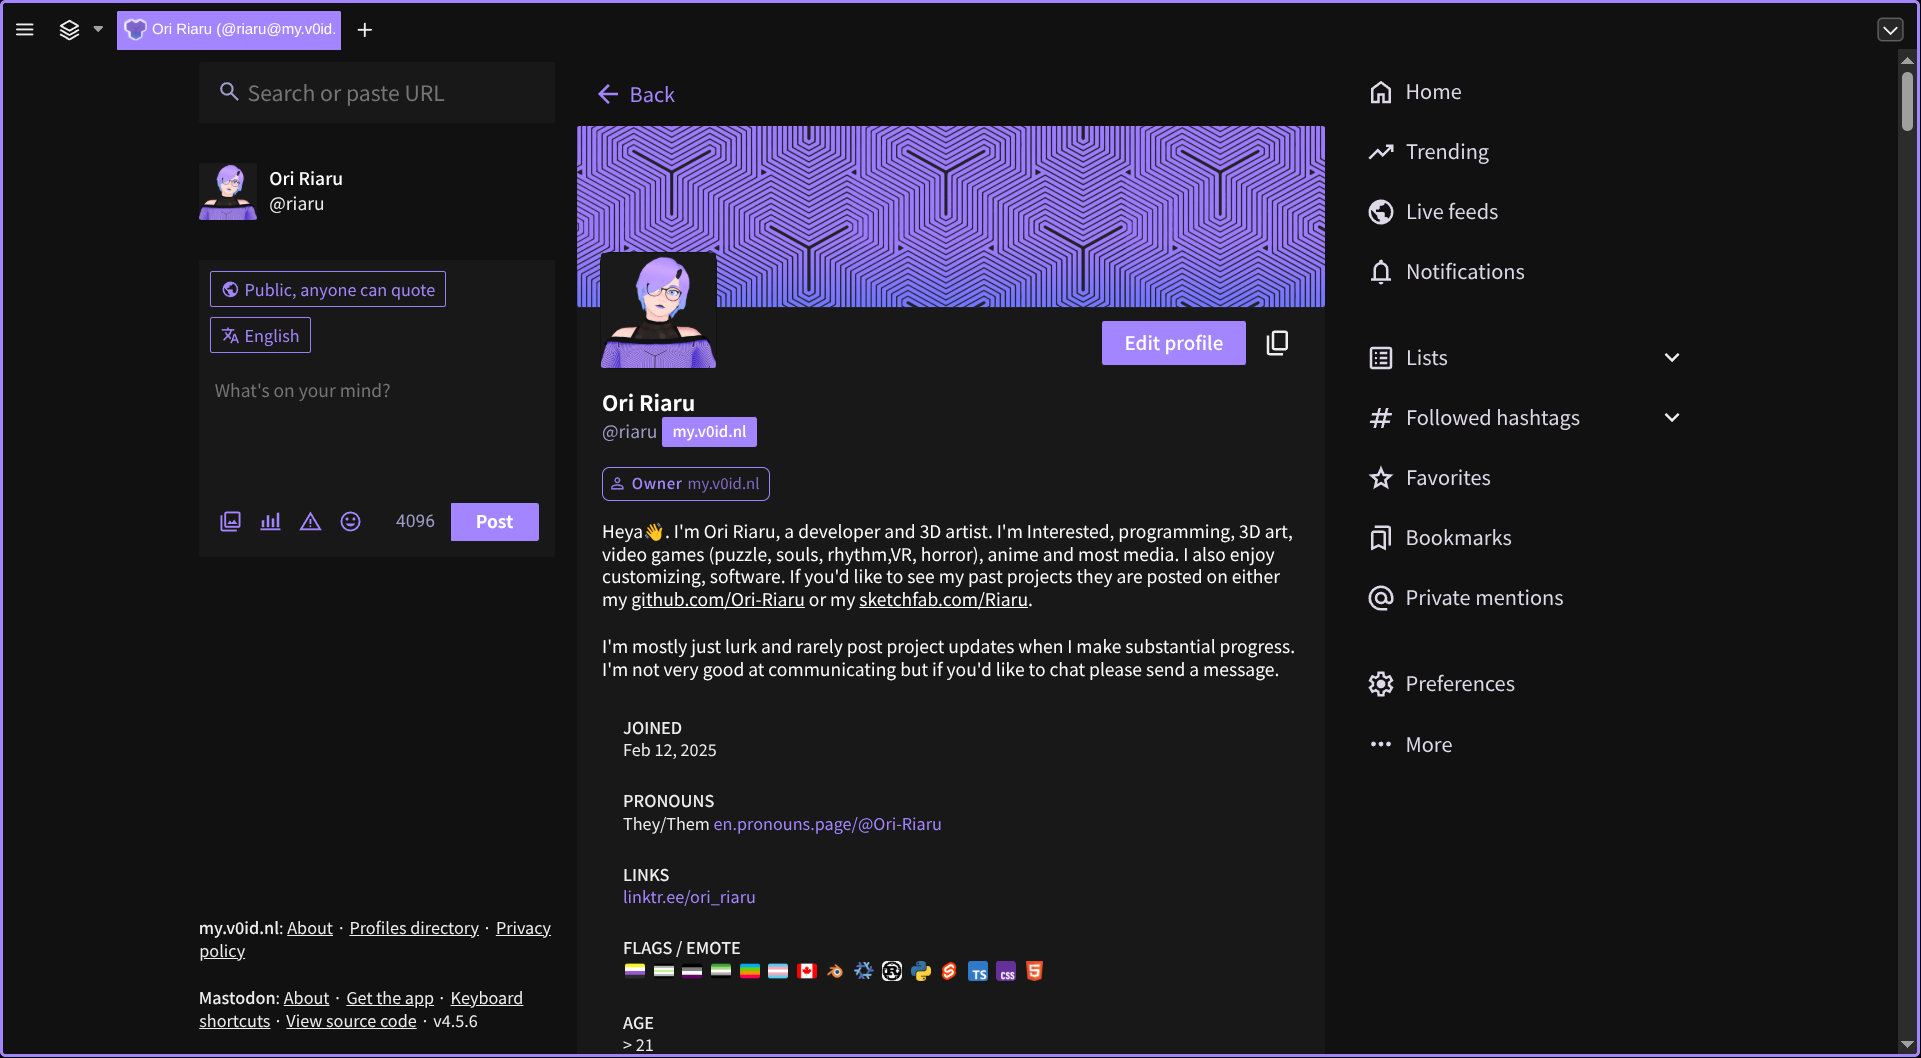
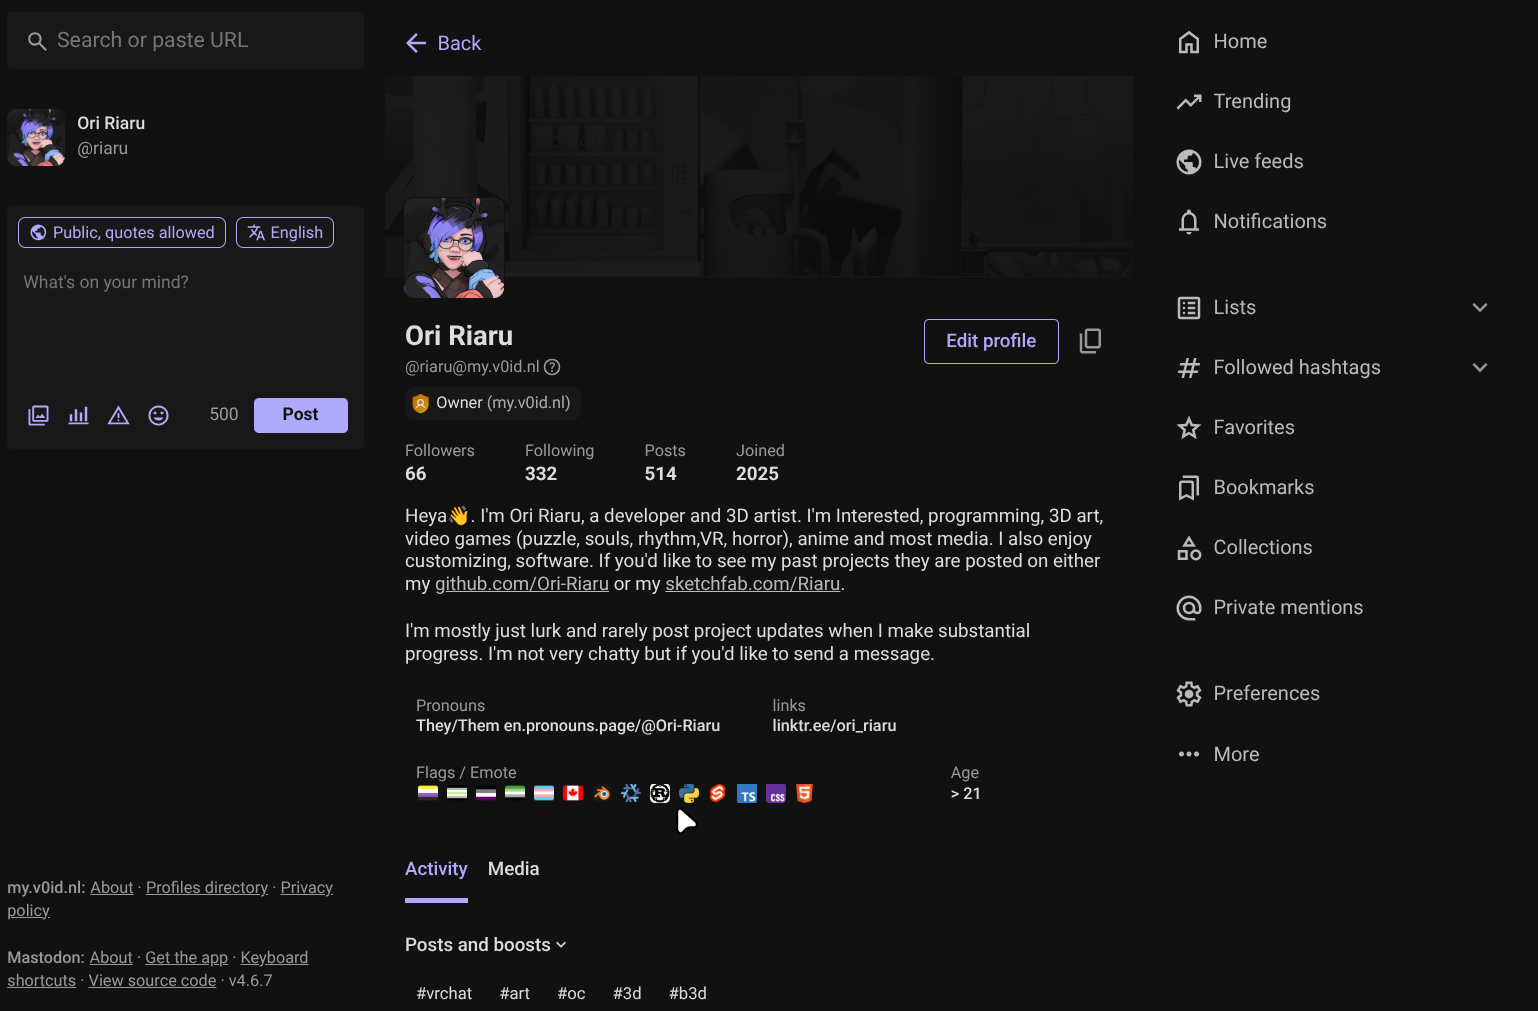
docs: cleanup outdated readme
- fixes broken linked caused by updates
- fix minor grammer and spelling issues
- add collapsable section to colors
- removes html rendering for swatches as github doesn't display it
anyways

diff --git a/README.md b/README.md
@@ -18,22 +18,26 @@ My personal Nixos configurations. They are not intended to be used by others how
 
 - [`users/`](./users/): Home Manager configurations for each user (built with `nh home switch`)
   - [`riaru/`](./users/riaru/)
-    - [`lain/`](./users/riaru/lain)- Home Manager configurations imported to my desktop
-    - [`slate/`](./users/riaru/slate)` - Home Manager configurations imported to my laptop
-    - [`kumo/`](./users/riaru/kumo) - Home Manager configuration imported to my desktop
+    - [`lain/`](./users/riaru/lain) - Home Manager configurations imported to my desktop
+    - [`slate/`](./users/riaru/slate) - Home Manager configurations imported to my laptop
+    - [`kumo/`](./users/riaru/kumo) - Home Manager configuration imported to my server
 
 - [`starters/`](./starters/): Project starting templates including flake and direnv
 - [`packages/`](./packages/): Self package software not available in nix packages
 - [`overlays/`](./overlays/): Patches and version overrides for packages
 - [`secrets/`](./secrets/): Encrypted credentials, passwords, keys, etc
 
-## Featured Configurations (TODO: outdated update)
+## Features
+
+### Desktop
 
 - [Niri](./configs/programs/niri/niri.nix) / [Waybar](./configs/programs/waybar/waybar.nix) / [Walker](./configs/programs/walker.nix)
 
 ![niri preview](./.github/niri-preview.png)
 
-- [Vivaldi](./configs/programs/vivaldi.nix)
+### Default Apps
+
+- [Vivaldi](./configs/programs/vivaldi/vivaldi.nix)
 
 ![Vivaldi Preview](./.github/vivaldi-preview.png)
 
@@ -41,17 +45,9 @@ My personal Nixos configurations. They are not intended to be used by others how
 
 ![vscodium preview](./.github/vscodium-preview.png)
 
-- [Ghostty](./configs/programs/ghostty.nix) / [Fish](./configs/programs/fish.nix) / [Starship](./configs/programs/starship.nix) / [Zoxide](./configs/programs/zoxide.nix) / [etc](./configs/groups/cli-base.nix)
+- [Ghostty](./configs/programs/ghostty.nix) / [Fish](./configs/programs/fish/fish.nix) / [Starship](./configs/programs/starship.nix) / [Zoxide](./configs/programs/zoxide.nix) / [etc](./configs/groups/cli-apps.nix)
 
 ![ghostty preview](./.github/ghostty-preview.png)
-
-- [Discord](./configs/programs/discord.nix)
-
-TODO: add demo
-
-- [Spotify](./configs/programs/spotify/spotify.nix)
-
-![spotify preview](./.github/spotify-preview.png)
 
 - [Obsidian](./configs/programs/obsidian.nix)
 
@@ -82,36 +78,38 @@ TODO: add demo
 Many application and websites have been themed to match my custom color scheme
 
 | Fonts     |                                                    | \   | \   |     | Spacing  |     |                            |
-| --------- | -------------------------------------------------- | --- | --- | --- | -------- | --- | -------------------------- |
+| -----------| ----------------------------------------------------| -----| -----| -----| ----------| -----| ----------------------------|
 | UI        | [Inter](https://fonts.google.com/specimen/Inter)   | \   | \   |     | `gap`    | 0px | Gap Between Major Sections |
 | Monospace | [JetBrainMono](https://www.jetbrains.com/lp/mono/) | \   | \   |     | `radius` | 2px | Radius of Cards            |
 
-### Color Palette
+<details><summary>Full Color List and Descriptions</summary>
 
-| Color              | Hex                                                                                                      | Swatch                                                       | Usage                                                             |     |
-| ------------------ | -------------------------------------------------------------------------------------------------------- | ------------------------------------------------------------ | ----------------------------------------------------------------- | --- |
-| Text               |                                                                                                          |                                                              |                                                                   |     |
-| `Text`             | <div style="color: white; background-color: #111111; padding: 15px; border-radius: 2px ">#eeeeee</div>   | ![Text](./.github/swatches/text.png)                         | Basic text, Headers                                               |     |
-| `Subtext`          | <div style="color: #aaaaaa; background-color: #111111; padding: 15px; border-radius: 2px ">#aaaaaa</div> | ![Subtext](./.github/swatches/subtext.png)                   | Subtext, Placeholder, Comments                                    |     |
-| `Hidden`           | <div style="color: #606060; background-color: #111111; padding: 15px; border-radius: 2px ">#606060</div> | ![Hidden](./.github/swatches/hidden.png)                     | Disabled, Hidden                                                  |     |
-| Backgrounds        |                                                                                                          |                                                              |                                                                   |     |
-| `base`             | <div style="color: white; background-color: #000000; padding: 15px; border-radius: 2px ">#000000</div>   | ![Base](./.github/swatches/base.png)                         | Window backgrounds                                                |     |
-| `section`          | <div style="color: white; background-color: #111111; padding: 15px; border-radius: 2px ">#111111</div>   | ![Section](./.github/swatches/section.png)                   | Major Section, Content Only Window                                |     |
-| `card`             | <div style="color: white; background-color: #181818; padding: 15px; border-radius: 2px ">#181818</div>   | ![Card](.github/swatches/card.png)                           | Card, Input, highlighted button                                   |     |
-| `overlay`          | <div style="color: white; background-color: #222222; padding: 15px; border-radius: 2px ">#222222</div>   | ![Overlay](./.github/swatches/overlay.png)                   | Search Overlay,                                                   |     |
-| Customizations     |                                                                                                          |                                                              |                                                                   |     |
-| `accent`           | <div style="color: white; background-color: #a386ff; padding: 15px; border-radius: 2px ">#a386ff</div>   | ![Accent](./.github/swatches/accent.png)                     | Customizable Primary Accent                                       |     |
-| `accent-secondary` | <div style="color: white; background-color: #83bbff; padding: 15px; border-radius: 2px ">#83bbff</div>   | ![Accent-Secondary](./.github/swatches/accent-secondary.png) | Customizable Secondary Accent                                     |     |
-| `accent-tertiary`  | <div style="color: black; background-color: #fefb77; padding: 15px; border-radius: 2px ">#fefb77</div>   | ![Accent-Tertiary](./.github/swatches/accent-tertiary.png)   | Customizable Tertiary Accent                                      |     |
-| Colors             |                                                                                                          |                                                              |                                                                   |     |
-| `Red`              | <div style="color: white; background-color: #fe5970; padding: 15px; border-radius: 2px ">#fe5970</div>   | ![Red](./.github/swatches/red.png)                           | Error, Remove, Close, Delete, Tags (HTML/XML), Annotations        |     |
-| `Orange`           | <div style="color: white; background-color: #ffa062; padding: 15px; border-radius: 2px ">#ffa062</div>   | ![Orange](./.github/swatches/orange.png)                     | Warning, Numbers                                                  |     |
-| `Yellow`           | <div style="color: black; background-color: #fefb77; padding: 15px; border-radius: 2px ">#fefb77</div>   | ![Yellow](./.github/swatches/yellow.png)                     | Info, Help                                                        |     |
-| `Green`            | <div style="color: black; background-color: #99ff82; padding: 15px; border-radius: 2px ">#99ff82</div>   | ![Green](./.github/swatches/green.png)                       | Strings                                                           |     |
-| `Teal`             | <div style="color: black; background-color: #80ffc1; padding: 15px; border-radius: 2px ">#80ffc1</div>   | ![Teal](./.github/swatches/teal.png)                         | Success, New, Add,                                                |     |
-| `Cyan`             | <div style="color: black; background-color: #7ef8fe; padding: 15px; border-radius: 2px ">#7ef8fe</div>   | ![Cyan](./.github/swatches/cyan.png)                         | Attributes, Properties (HTML/CSS/JSX)                             |     |
-| `Blue`             | <div style="color: white; background-color: #83bbff; padding: 15px; border-radius: 2px ">#83bbff</div>   | ![Blue](./.github/swatches/blue.png)                         | Neutral, Function Names, Declarations                             |     |
-| `Purple`           | <div style="color: white; background-color: #a386ff; padding: 15px; border-radius: 2px ">#a386ff</div>   | ![Purple](./.github/swatches/purple.png)                     | Modified, Change, Edit, Keywords, Reserved Words, Important Terms |     |
-| `Pink`             | <div style="color: black; background-color: #fe99fe; padding: 15px; border-radius: 2px ">#fe99fe</div>   | ![Pink](./.github/swatches/pink.png)                         | Operators (+, -, \*, etc.)                                        |     |
-| `White`            | <div style="color: black; background-color: #ffffff; padding: 15px; border-radius: 2px ">#ffffff</div>   | ![White](./.github/swatches/white.png)                       |                                                                   |     |
-| `Black`            | <div style="color: white; background-color: #000000; padding: 15px; border-radius: 2px ">#000000</div>   | ![Black](./.github/swatches/black.png)                       |                                                                   |     |
+| Color              | Hex     | Swatch                                                       | Usage                                                             |     |
+| --------------------| ---------| --------------------------------------------------------------| -------------------------------------------------------------------| -----|
+| Text               |         |                                                              |                                                                   |     |
+| `Text`             | #eeeeee | ![Text](./.github/swatches/text.png)                         | Basic text, Headers                                               |     |
+| `Subtext`          | #aaaaaa | ![Subtext](./.github/swatches/subtext.png)                   | Subtext, Placeholder, Comments                                    |     |
+| `Hidden`           | #606060 | ![Hidden](./.github/swatches/hidden.png)                     | Disabled, Hidden                                                  |     |
+| Backgrounds        |         |                                                              |                                                                   |     |
+| `base`             | #000000 | ![Base](./.github/swatches/base.png)                         | Window backgrounds                                                |     |
+| `section`          | #111111 | ![Section](./.github/swatches/section.png)                   | Major Section, Content Only Window                                |     |
+| `card`             | #181818 | ![Card](.github/swatches/card.png)                           | Card, Input, highlighted button                                   |     |
+| `overlay`          | #222222 | ![Overlay](./.github/swatches/overlay.png)                   | Search Overlay,                                                   |     |
+| Customizations     |         |                                                              |                                                                   |     |
+| `accent`           | #a386ff | ![Accent](./.github/swatches/accent.png)                     | Customizable Primary Accent                                       |     |
+| `accent-secondary` | #83bbff | ![Accent-Secondary](./.github/swatches/accent-secondary.png) | Customizable Secondary Accent                                     |     |
+| `accent-tertiary`  | #fefb77 | ![Accent-Tertiary](./.github/swatches/accent-tertiary.png)   | Customizable Tertiary Accent                                      |     |
+| Colors             |         |                                                              |                                                                   |     |
+| `Red`              | #fe5970 | ![Red](./.github/swatches/red.png)                           | Error, Remove, Close, Delete, Tags (HTML/XML), Annotations        |     |
+| `Orange`           | #ffa062 | ![Orange](./.github/swatches/orange.png)                     | Warning, Numbers                                                  |     |
+| `Yellow`           | #fefb77 | ![Yellow](./.github/swatches/yellow.png)                     | Info, Help                                                        |     |
+| `Green`            | #99ff82 | ![Green](./.github/swatches/green.png)                       | Strings                                                           |     |
+| `Teal`             | #80ffc1 | ![Teal](./.github/swatches/teal.png)                         | Success, New, Add,                                                |     |
+| `Cyan`             | #7ef8fe | ![Cyan](./.github/swatches/cyan.png)                         | Attributes, Properties (HTML/CSS/JSX)                             |     |
+| `Blue`             | #83bbff | ![Blue](./.github/swatches/blue.png)                         | Neutral, Function Names, Declarations                             |     |
+| `Purple`           | #a386ff | ![Purple](./.github/swatches/purple.png)                     | Modified, Change, Edit, Keywords, Reserved Words, Important Terms |     |
+| `Pink`             | #fe99fe | ![Pink](./.github/swatches/pink.png)                         | Operators (+, -, \*, etc.)                                        |     |
+| `White`            | #ffffff | ![White](./.github/swatches/white.png)                       |                                                                   |     |
+| `Black`            | #000000 | ![Black](./.github/swatches/black.png)                       |                                                                   |     |
+
+</details>
